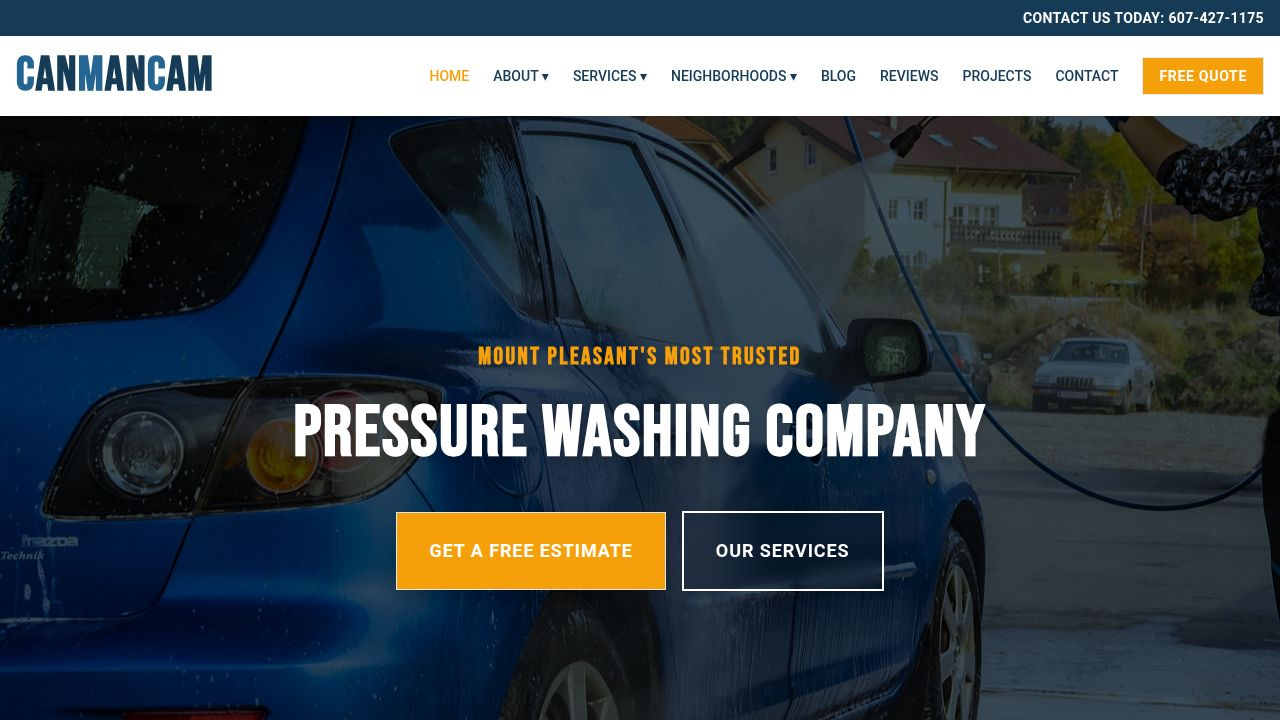
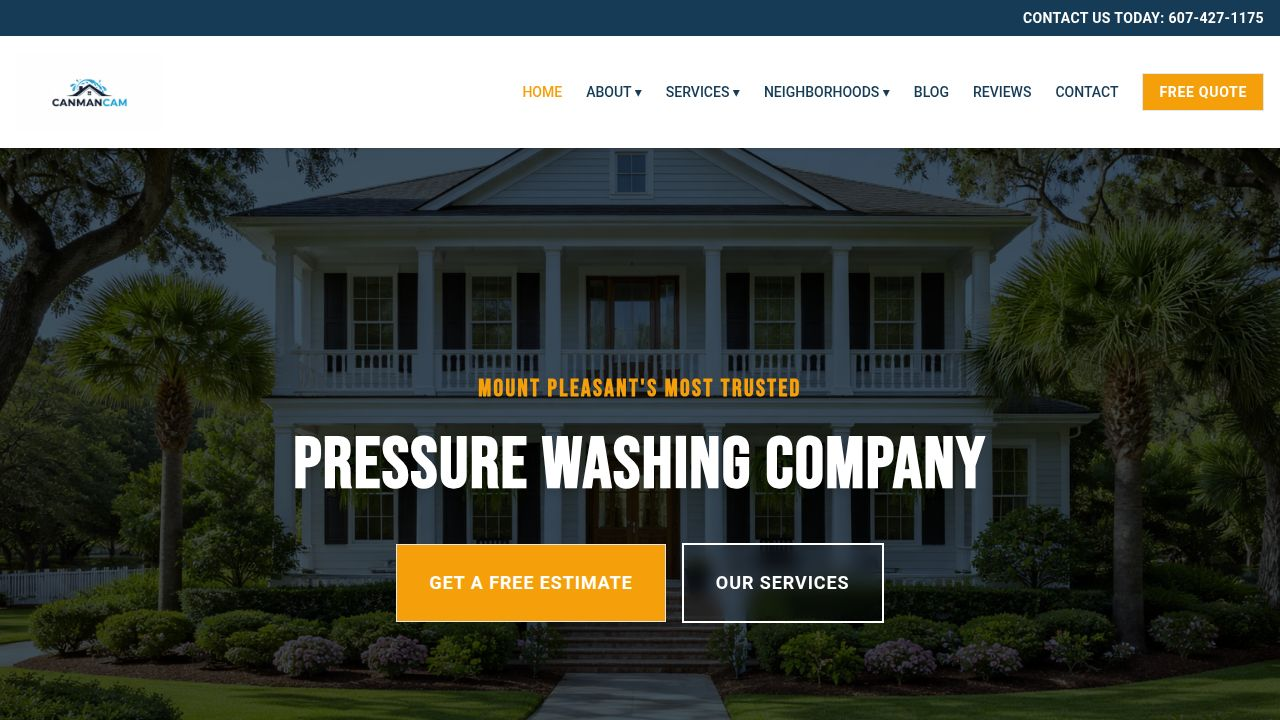
Update website images and remove projects section from pages
Updates hero and service card images, removes the 'Projects' link from navigation and footer, and deletes the projects section from the homepage in Home.tsx.

Replit-Commit-Author: Agent
Replit-Commit-Session-Id: dff89412-fd16-4232-b59d-e55106201992
Replit-Commit-Checkpoint-Type: intermediate_checkpoint
Replit-Commit-Event-Id: 6c03decb-3dd8-4cd7-bc80-325b41301b2a
Replit-Commit-Screenshot-Url: https://storage.googleapis.com/screenshot-production-us-central1/6be25bba-2da1-49a8-aa39-5b8ce1fddab5/dff89412-fd16-4232-b59d-e55106201992/JGfvDCH
Replit-Helium-Checkpoint-Created: true

diff --git a/client/src/pages/Home.tsx b/client/src/pages/Home.tsx
@@ -2,12 +2,12 @@ import { useState } from "react";
 import { Header } from "@/components/layout/Header";
 import { Footer } from "@/components/layout/Footer";
 import { Button } from "@/components/ui/button";
-import { services, reviews, projects } from "@/lib/data";
-import heroImage from "@assets/stock_images/pressure_washing_hou_08430493.jpg";
-import houseSidingImage from "@assets/uploaded_images/soft-washing-house-siding-after.JPEG";
+import { services, reviews } from "@/lib/data";
+import heroImage from "@assets/uploaded_images/mount-pleasant-lowcountry-home-exterior-hero.png";
+import houseWashingImage from "@assets/uploaded_images/house-washing-siding-exterior-cleaning.png";
 import drivewayImage from "@assets/uploaded_images/pressure-washing-driveway-after.JPEG";
 import sidewalkImage from "@assets/uploaded_images/pressure-washing-sidewalk-mount-pleasant.JPEG";
-import patioImage from "@assets/uploaded_images/pressure-washing-patio-after.JPEG";
+import gutterCleaningImage from "@assets/uploaded_images/gutter-cleaning-service-mount-pleasant.png";
 import trashCanImage from "@assets/uploaded_images/trash-can-cleaning-after.JPEG";
 import { Link } from "wouter";
 
@@ -40,11 +40,11 @@ function ExpandableHomeReview({ review, idx }: { review: typeof reviews[0], idx:
 
 export default function Home() {
   const serviceImages: Record<string, string> = {
-    "house-washing": houseSidingImage,
+    "house-washing": houseWashingImage,
     "driveway-cleaning": drivewayImage,
     "sidewalk-cleaning": sidewalkImage,
-    "gutter-cleaning": patioImage,
-    "window-cleaning": houseSidingImage,
+    "gutter-cleaning": gutterCleaningImage,
+    "window-cleaning": houseWashingImage,
     "trash-can-cleaning": trashCanImage
   };
 
@@ -220,49 +220,6 @@ export default function Home() {
               className="border-2 border-primary text-primary hover:bg-primary hover:text-white uppercase font-bold tracking-wide rounded-none"
             >
               <Link href="/reviews">Read More Reviews</Link>
-            </Button>
-          </div>
-        </div>
-      </section>
-
-      <section data-testid="projects-section" className="py-20 bg-gray-50">
-        <div className="container mx-auto px-4">
-          <div className="text-center mb-16">
-            <h2 className="text-4xl font-heading font-bold text-primary mb-4">RECENT PROJECTS</h2>
-            <p className="text-gray-600 max-w-2xl mx-auto">See the difference professional pressure washing makes. Browse our recent projects throughout Mount Pleasant neighborhoods.</p>
-          </div>
-
-          <div className="grid md:grid-cols-3 gap-6 max-w-5xl mx-auto">
-            {projects.slice(0, 3).map((project) => (
-              <Link 
-                key={project.slug} 
-                href={`/projects/${project.slug}`}
-                data-testid={`card-project-${project.slug}`} 
-                className="block bg-white hover:shadow-lg transition-shadow overflow-hidden"
-              >
-                <div className="h-40 overflow-hidden">
-                  <img 
-                    src={project.image} 
-                    alt={`${project.title} - ${project.service} in ${project.location}`}
-                    className="w-full h-full object-cover"
-                  />
-                </div>
-                <div className="p-6">
-                  <h3 className="font-heading font-bold text-primary text-lg mb-2">{project.title}</h3>
-                  <p className="text-sm text-gray-600 mb-2">{project.description}</p>
-                  <span className="text-xs text-accent font-bold uppercase">View Project →</span>
-                </div>
-              </Link>
-            ))}
-          </div>
-          
-          <div className="text-center mt-12">
-            <Button 
-              asChild 
-              data-testid="button-view-projects"
-              className="bg-accent hover:bg-accent/90 text-white font-bold uppercase tracking-wider px-8 py-6 h-auto rounded-none"
-            >
-              <Link href="/projects">View All Projects</Link>
             </Button>
           </div>
         </div>

diff --git a/client/src/components/layout/Header.tsx b/client/src/components/layout/Header.tsx
@@ -87,7 +87,6 @@ export function Header() {
 
           <NavLink href="/pressure-washing-tips">BLOG</NavLink>
           <NavLink href="/reviews">REVIEWS</NavLink>
-          <NavLink href="/projects">PROJECTS</NavLink>
           <NavLink href="/contact">CONTACT</NavLink>
           
           <Button asChild className="bg-accent hover:bg-accent/90 text-white font-bold uppercase tracking-wider rounded-none">
@@ -114,7 +113,6 @@ export function Header() {
           <Link href="/service-areas" className="text-primary font-bold hover:text-accent py-2" onClick={() => setIsOpen(false)}>NEIGHBORHOODS</Link>
           <Link href="/pressure-washing-tips" className="text-primary font-bold hover:text-accent py-2" onClick={() => setIsOpen(false)}>BLOG</Link>
           <Link href="/reviews" className="text-primary font-bold hover:text-accent py-2" onClick={() => setIsOpen(false)}>REVIEWS</Link>
-          <Link href="/projects" className="text-primary font-bold hover:text-accent py-2" onClick={() => setIsOpen(false)}>PROJECTS</Link>
           <Link href="/contact" className="text-primary font-bold hover:text-accent py-2" onClick={() => setIsOpen(false)}>CONTACT</Link>
           <Button asChild className="bg-accent hover:bg-accent/90 w-full mt-2 rounded-none">
             <a href="https://clienthub.getjobber.com/hubs/bb7e70fa-ec16-417a-9059-46487bf60acb/public/requests/2107339/new" target="_blank" rel="noopener noreferrer" onClick={() => setIsOpen(false)}>

diff --git a/client/src/components/layout/Footer.tsx b/client/src/components/layout/Footer.tsx
@@ -22,7 +22,6 @@ export function Footer() {
             <li><Link href="/about" className="hover:text-accent transition-colors">About Us</Link></li>
             <li><Link href="/services" className="hover:text-accent transition-colors">Our Services</Link></li>
             <li><Link href="/reviews" className="hover:text-accent transition-colors">Reviews</Link></li>
-            <li><Link href="/projects" className="hover:text-accent transition-colors">Recent Projects</Link></li>
             <li><Link href="/contact" className="hover:text-accent transition-colors">Contact Us</Link></li>
             <li><Link href="/price-beat-guarantee" className="hover:text-accent transition-colors">Price Beat Guarantee</Link></li>
           </ul>
